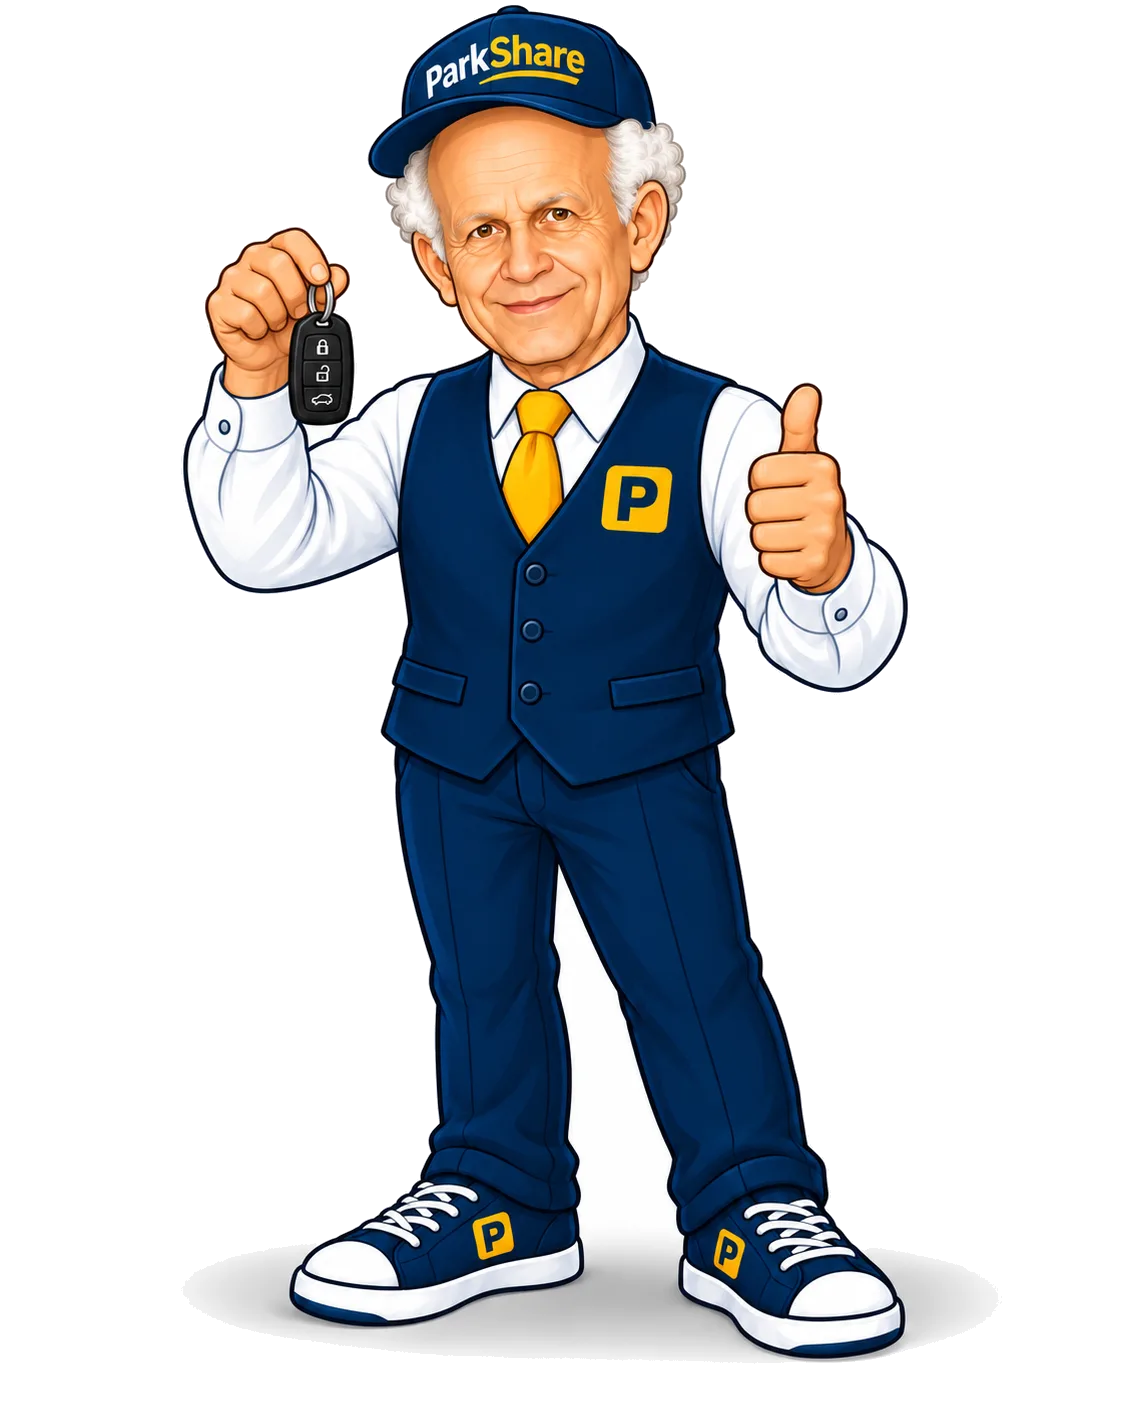
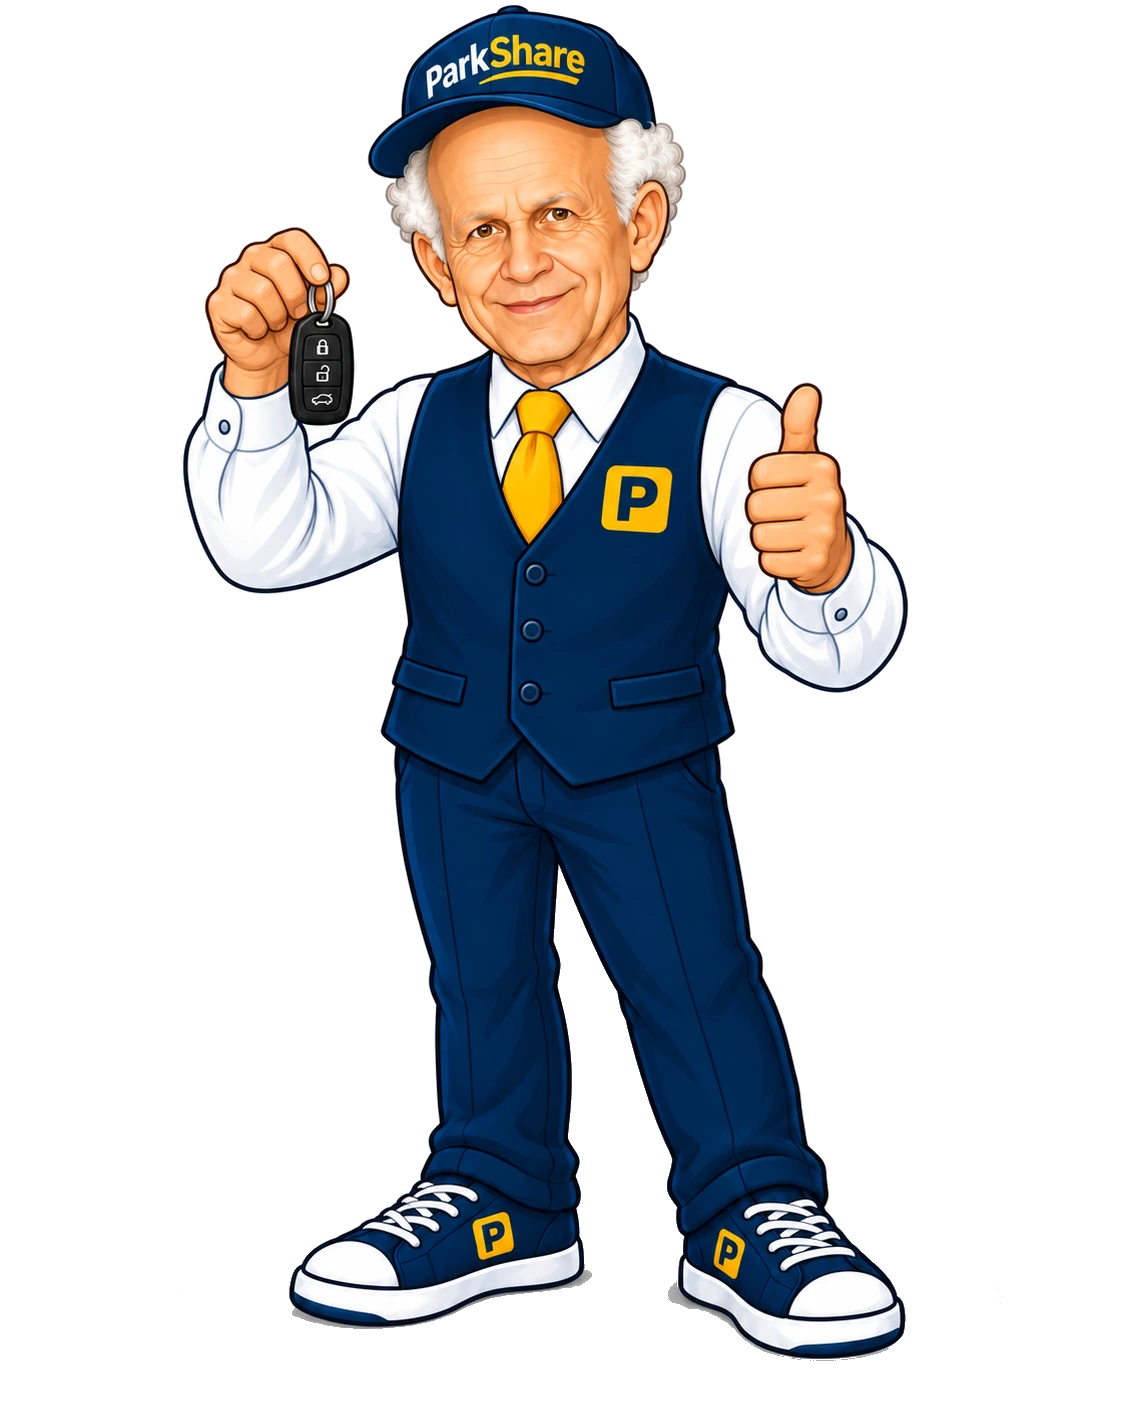
Phase 2b legacy mascot cleanup (#85)
* Add files via upload

* Add files via upload

* Add files via upload

* Add files via upload

* Add files via upload

Changed region(s): [[0.3431, 0.8894, 0.6863, 0.9815], [0.7799, 0.8894, 0.8734, 0.9815], [0.1872, 0.8894, 0.3119, 0.9508]]

diff --git a/src/index.css b/src/index.css
@@ -7197,3 +7197,63 @@ button, input, select, textarea { font: inherit; }
     margin-top: 20px !important;
   }
 }
+
+
+/* ==========================================================================
+   PHASE 2B — WILLIAM CLEANUP PASS — 2026-09-25
+   1) Host hero artwork uses cleaned William 11 assets with no baked-in
+      white ground / foot-shadow area.
+   2) Help "Need a hand?" desktop/tablet: keep William fully contained inside
+      the white rounded box so his legs do not spill onto the navy panel.
+   3) Preserve the previously locked <=620px mobile hand-over-border treatment.
+   ========================================================================== */
+
+/* Desktop / web: contain full William 16 inside the white support box. */
+@media (min-width: 821px) {
+  .ps-help-small-parker-frame,
+  .ps-help-small-parker-card {
+    overflow: hidden !important;
+  }
+
+  .ps-help-small-parker-card .ps-mascot-help-card {
+    position: absolute !important;
+    left: 50% !important;
+    top: 5px !important;
+    bottom: auto !important;
+    width: auto !important;
+    height: calc(100% - 10px) !important;
+    max-width: calc(100% + 26px) !important;
+    max-height: calc(100% - 10px) !important;
+    transform: translateX(-50%) !important;
+    object-fit: contain !important;
+    object-position: center bottom !important;
+    clip-path: none !important;
+    z-index: 2 !important;
+    pointer-events: none !important;
+  }
+}
+
+/* Tablet / desktop-site intermediate widths: same containment principle. */
+@media (min-width: 621px) and (max-width: 820px) {
+  .ps-help-small-parker-frame,
+  .ps-help-small-parker-card {
+    overflow: hidden !important;
+  }
+
+  .ps-help-small-parker-card .ps-mascot-help-card {
+    position: absolute !important;
+    left: 50% !important;
+    top: 4px !important;
+    bottom: auto !important;
+    width: auto !important;
+    height: calc(100% - 8px) !important;
+    max-width: calc(100% + 20px) !important;
+    max-height: calc(100% - 8px) !important;
+    transform: translateX(-50%) !important;
+    object-fit: contain !important;
+    object-position: center bottom !important;
+    clip-path: none !important;
+    z-index: 2 !important;
+    pointer-events: none !important;
+  }
+}
